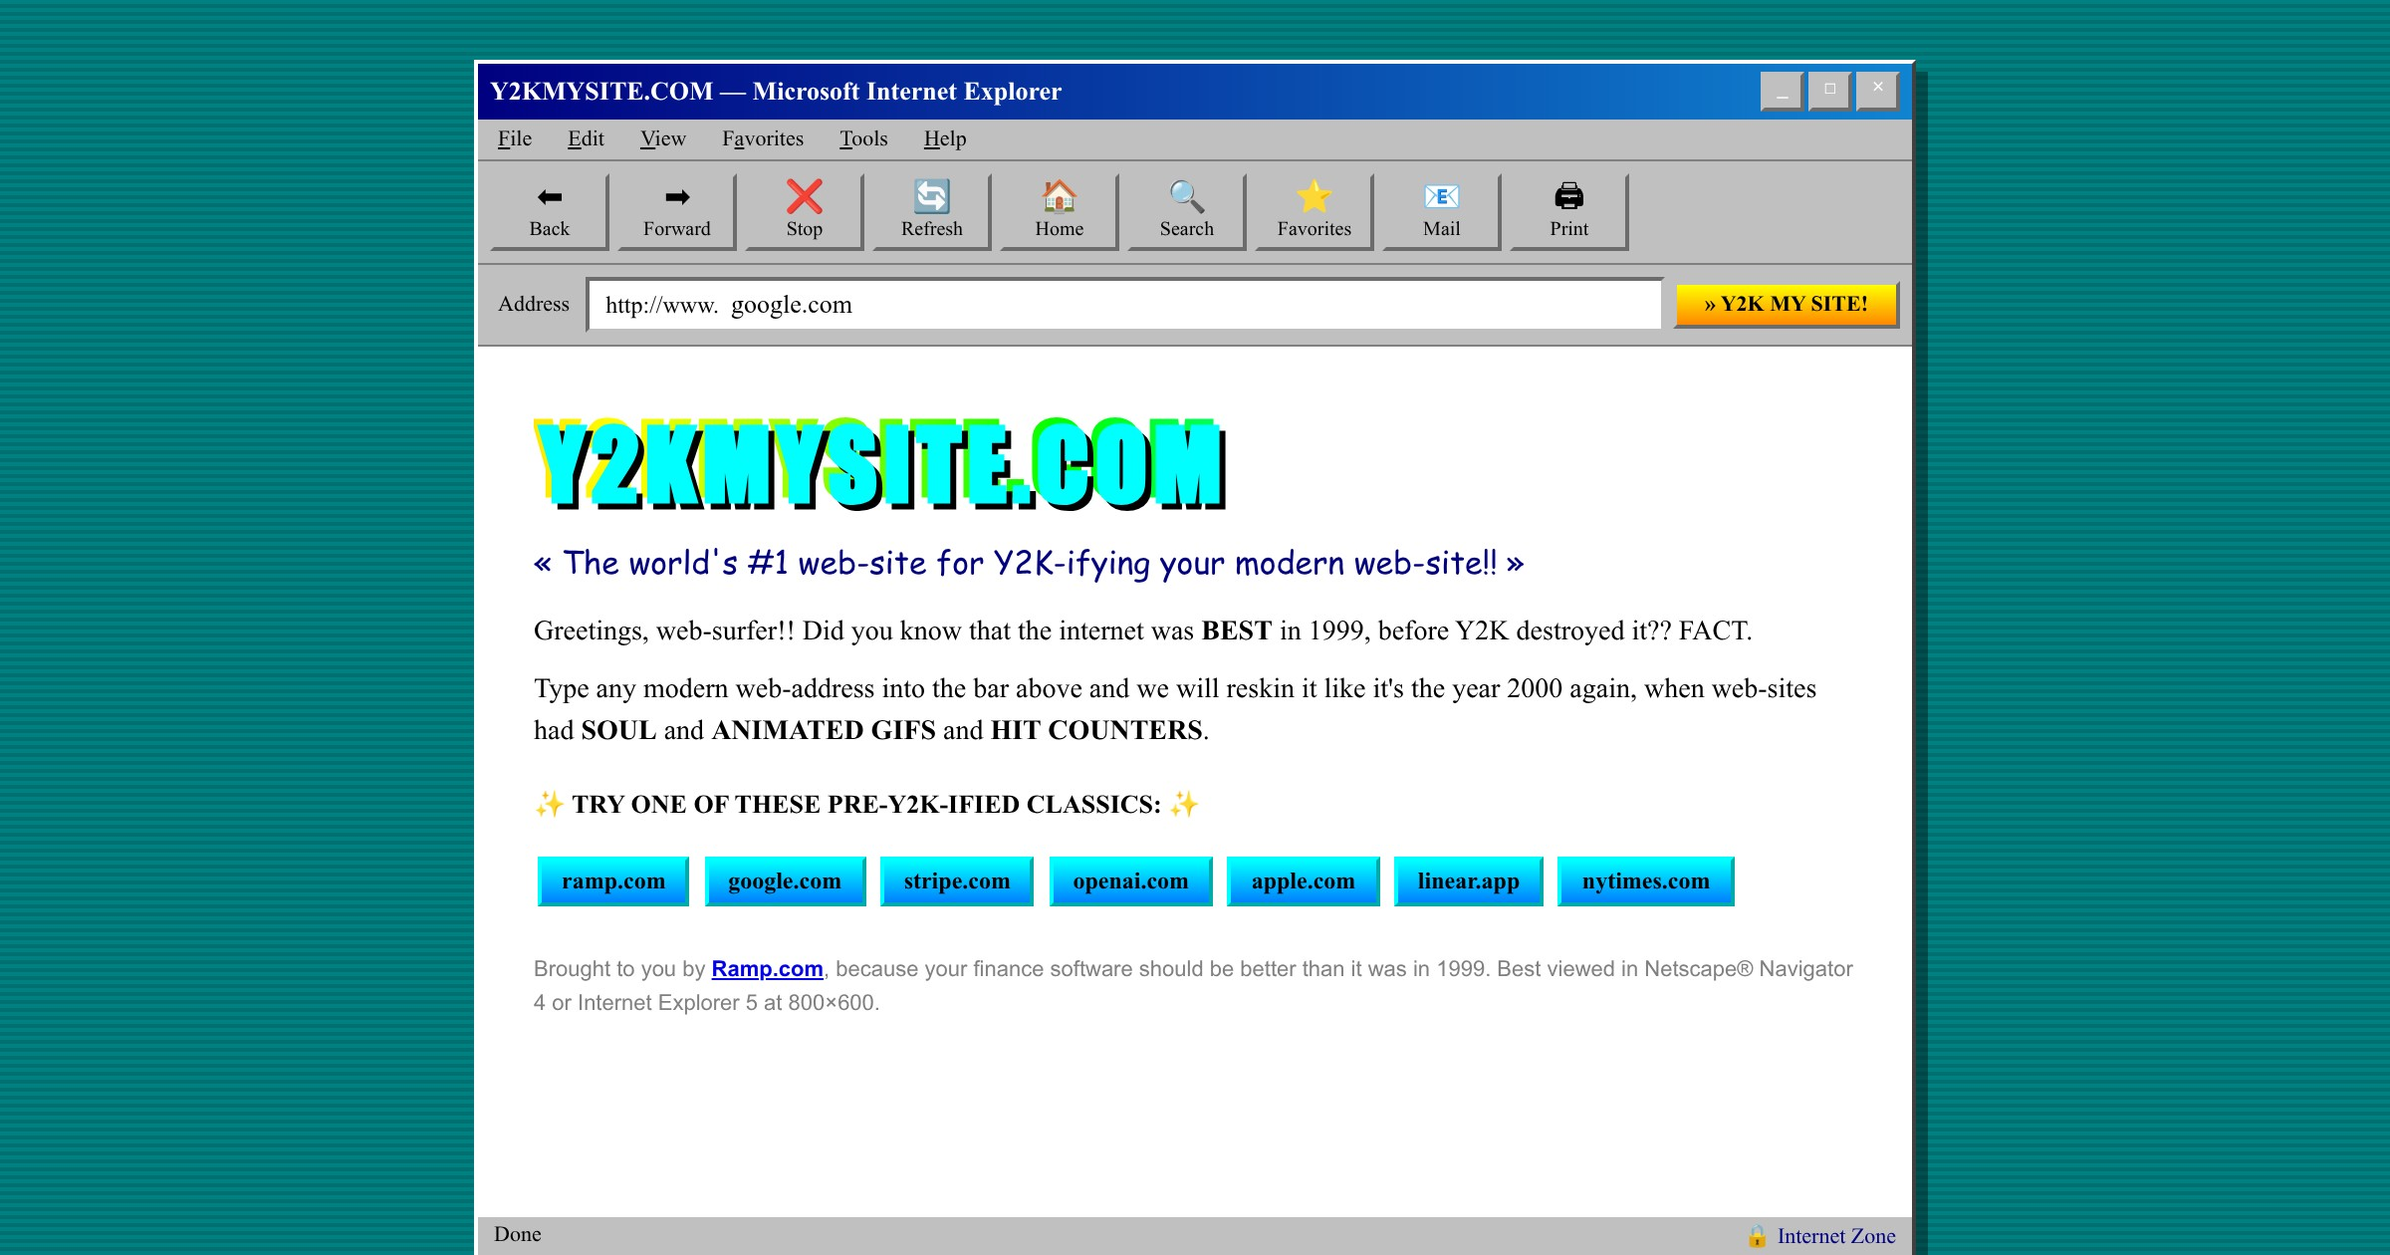
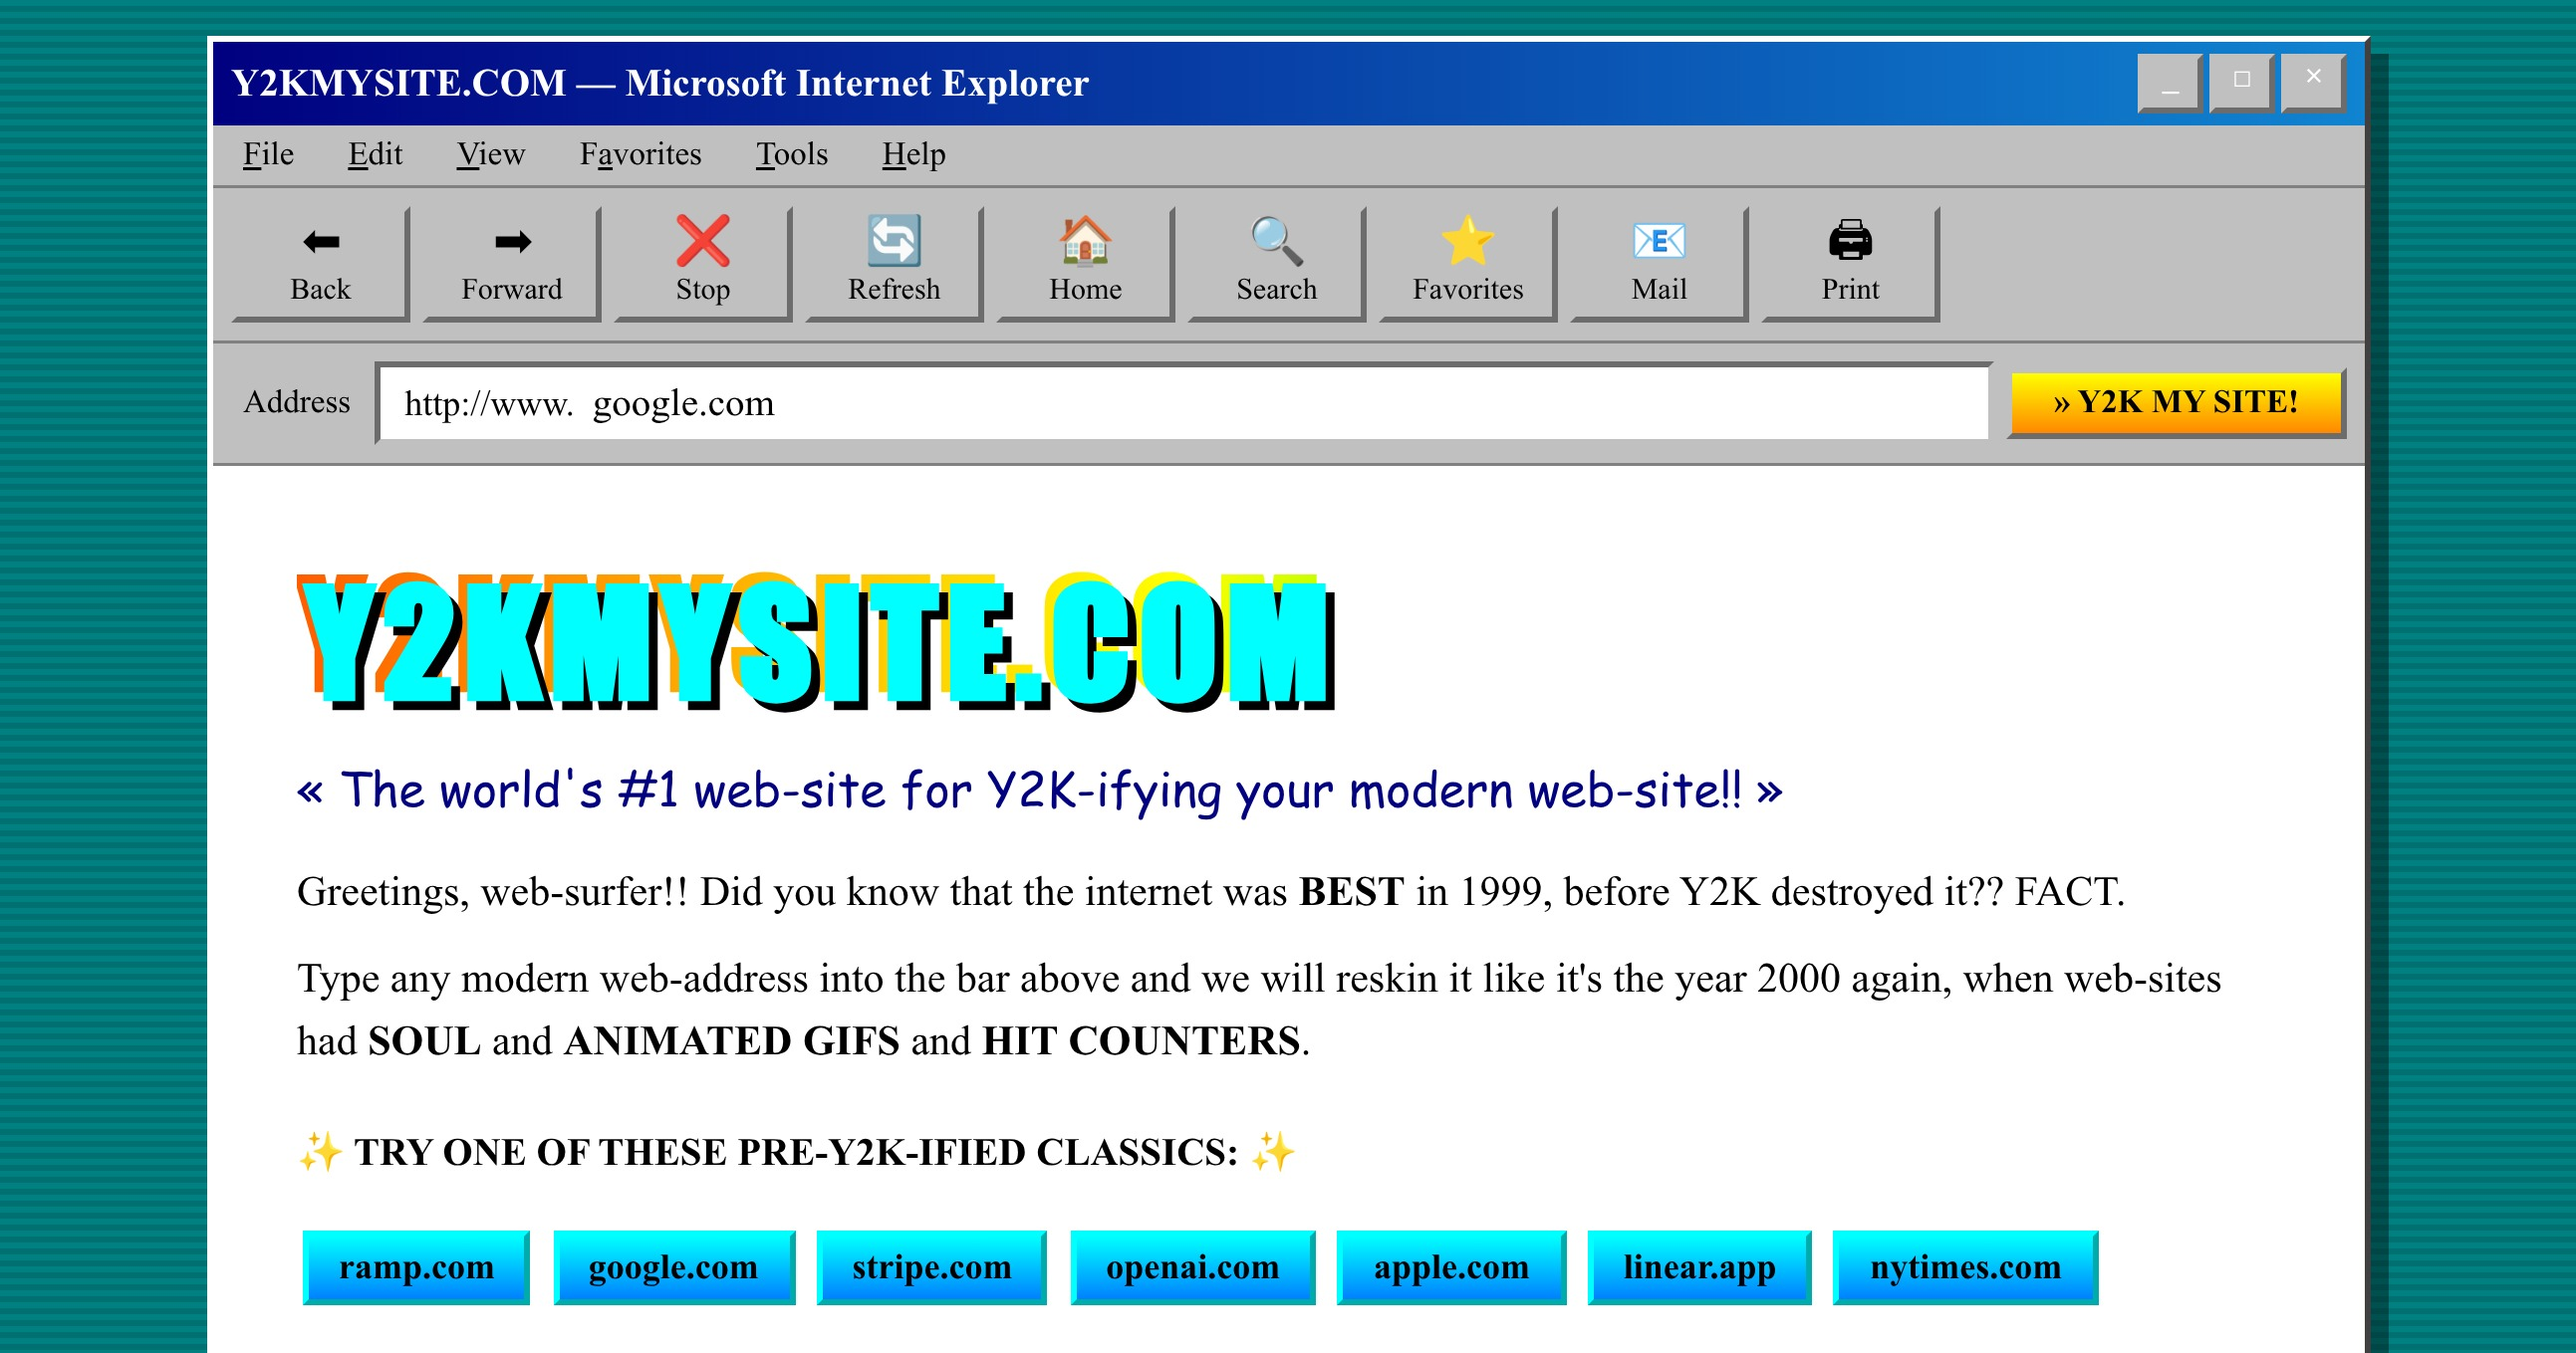
og: bigger IE5 window in share preview, frame fills 1200x630
- Reframed to crop tight around the window + show all 7 example buttons
- Wordmark, address bar, full toolbar all dominant
- Bumped cache buster to ?v=3

diff --git a/index.html b/index.html
@@ -8,8 +8,8 @@
 <meta name="description" content="Y2KMYSITE.COM turns any modern web-site into its glorious year-2000 self. A web-experience brought to you by Ramp.com.">
 <meta property="og:title" content="Y2KMYSITE.COM &mdash; THE INTERNET IS DOWN!!! 12/31/99">
 <meta property="og:description" content="Type in any URL and we'll reskin it like it's 1999. Brought to you by Ramp.com.">
-<meta property="og:image" content="https://kendallhtucker.github.io/y2kmysite/img/og.jpg?v=2">
-<meta name="twitter:image" content="https://kendallhtucker.github.io/y2kmysite/img/og.jpg?v=2">
+<meta property="og:image" content="https://kendallhtucker.github.io/y2kmysite/img/og.jpg?v=3">
+<meta name="twitter:image" content="https://kendallhtucker.github.io/y2kmysite/img/og.jpg?v=3">
 <meta property="og:image:width" content="1200">
 <meta property="og:image:height" content="630">
 <meta name="twitter:card" content="summary_large_image">
